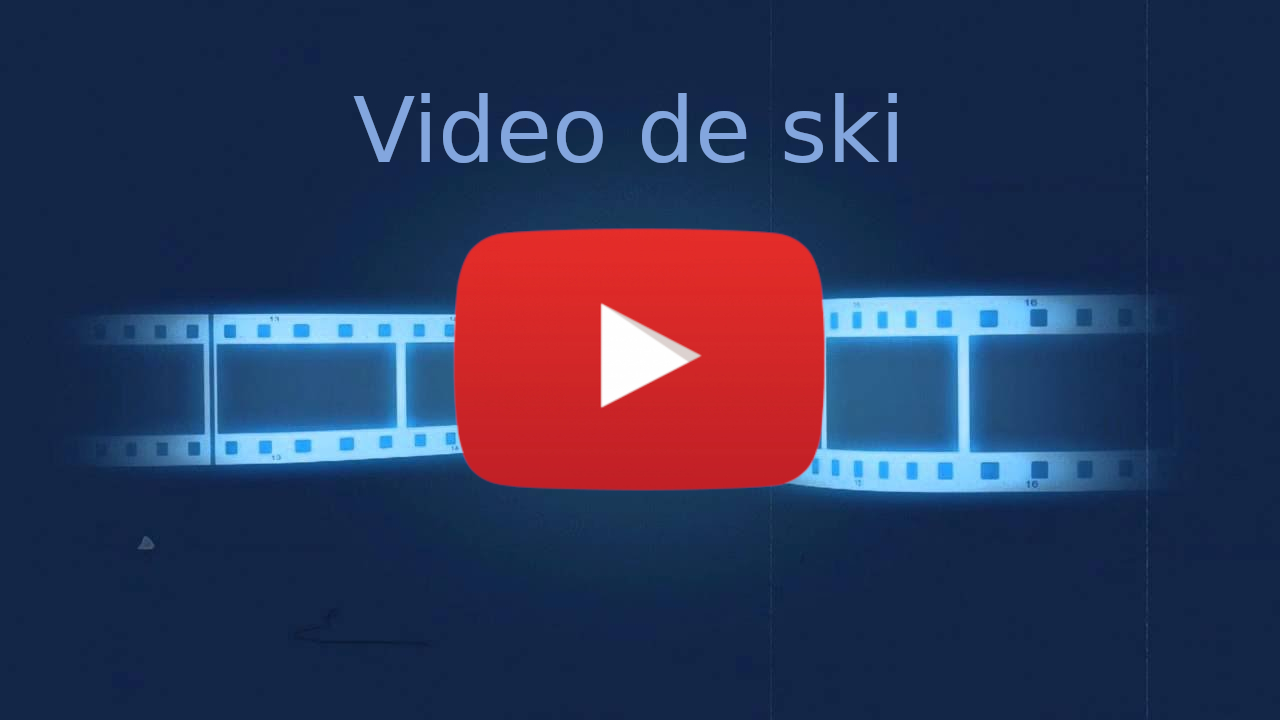
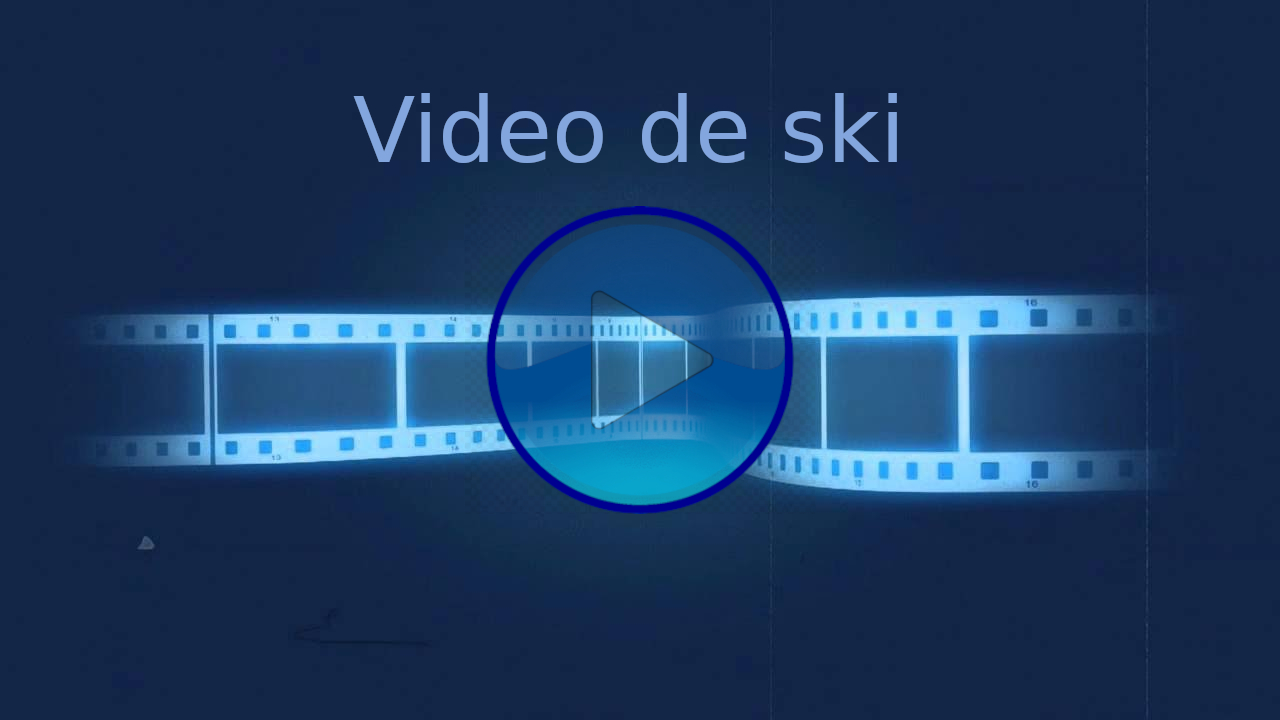
modified:   e5e9fa1ba31ecd1ae84f75caaa474f3a663f05f4/Chaises.html 	new file:   images/niveauxdespistes.jpg 	modified:   images/video.jpg

Changed region(s): [[0.3438, 0.275, 0.6562, 0.7333]]

diff --git a/lecon.html b/lecon.html
@@ -4,88 +4,71 @@
     <meta charset="UTF-8">
     <meta http-equiv="X-UA-Compatible" content="IE=edge">
     <meta name="viewport" content="width=device-width, initial-scale=1.0">
-    <title>Martin Carmichael, Moniteur de ski</title>
+    <title>Martin Carmichael, Leçon de ski</title>
     <!-- Main CSS file -->
-    <link rel="stylesheet" href="../css/style.css">
+    <link rel="stylesheet" href="css/style.css">
     <!-- Normalize file -->
-    <link rel="stylesheet" href="../css/normalize.css">
+    <link rel="stylesheet" href="css/normalize.css">
     <!-- Font Awesome -->
-    <link rel="stylesheet" href="../css/all.min.css">
+    <link rel="stylesheet" href="css/all.min.css">
     <!-- Google Fonts -->
     <link rel="stylesheet" href="https://fonts.googleapis.com/css?family=Montserrat">
 </head>
 <body>
     <!-- Sidebar (visible on medium and large screens) -->
     <div class="sidebar">
-        <img src="../images/avatar_smoke.jpg" alt="avatar photo">
+        <img src="images/avatar_smoke.jpg" alt="avatar photo">
         <div class="icons">
-            <a href="../index.html#home">
+            <a href="index.html#home">
                 <i class="fa fa-home"></i>
-                <span>Martin</span>
+                <span>accueil</span>
             </a>
-
-            <a href="#" class="active">
-                <i class="fa fa-camera"></i>  
-                <span>Dan les</br>Chaises</span>
+            <a href="#lecon" class="active">
+                <i class="fa fa-user"></i>
+                <span>Leçon </br>de ski</span>
             </a>
-
-            <a href="#1">
-                <i class="fa fa-camera"></i>  
-                <span>30 mars 2022</span>
+           <a href="#contact">
+                <i class="fa fa-envelope"></i>
+                <span>contact</span>
             </a>
-
-            <a href="#2">
+            <a href="password.html#password">
                 <i class="fa fa-camera"></i>  
-                <span>15 avril 2022</span>
-            </a>
-            <a href="videos.html">
-                <i class="fa fa-camera"></i>  
-                <span>Vidéos</span>
+                <span>vidéos</span>
             </a>
 
         </div>
     </div>
     <!-- Navbar (visible on small screens) -->
     <div class="navbar">
-        <a href="videos.html">Vidéos</a>
+        <a href="index.html#home">accueil</a>
+        <a href="#lecon">Leçon de ski</a>
+        <a href="password.html#password">vidéos</a>
     </div>
 
     <!-- start home -->
     <div class="home" id="home">
         <div class="container">
             <div class="text">
-                <h1>Dan lesChaises</h1>
-                <p>Vidéos de ski au Mont-Comi</p>
+                <h1>Martin Carmichael</h1>
+                <p>Moniteur de ski au Mont-Comi</p>
             </div>
         </div>
     </div>
     <!-- end home -->
 
-    
-    <!-- start videos -->
-    <div class="photos" id="photos">
-  	  <p id="1">
-		<video controls poster="../images/video.jpg">
-		<source src="../videos/c1.mp4" type="video/mp4">
-		Your browser does not support the video tag.  Votre Navigateur ne supporte pas les vidéos.
-		</video></br>
-	        <i class="fa fa-camera"></i>  
-		Vidéo du 30 mars 2022.
-	        </br>
-	  </p>
-	  <p id="2">
-	    </br>
-		<video controls poster="../images/video.jpg">
-		<source src="../videos/c2.mp4" type="video/mp4">
-		Your browser does not support the video tag.  Votre Navigateur ne supporte pas les vidéos.
-		</video></br>
-		<i class="fa fa-camera"></i>  
-		Vidéo du 15 avril 2022
-		</br>
-	  </p>
-
+    <!-- start about -->
+    <div class="about" id="lecon">
+        <div class="container">
+            <div class="my-name">
+                <h2>Sécurité en ski</h2>
+                <p>
+		Le code des couleurs des pistes de ski au Québec</br>
+            	<img src="images/niveauxdespistes.jpg" alt="">
+		</p>
+            </div>
+         </div>
     </div>
-    <!-- end photos -->
+
 
     <!-- start contact -->
     <div class="contact" id="contact">

diff --git a/index.html b/index.html
@@ -35,6 +35,11 @@
                 <i class="fa fa-envelope"></i>
                 <span>contact</span>
             </a>
+            <a href="lecon.html">
+                <i class="fa fa-envelope"></i>
+                <span>leçon</span>
+            </a>
+
             <a href="password.html#password">
                 <i class="fa fa-camera"></i>  
                 <span>vidéos</span>
@@ -48,6 +53,7 @@
         <a href="#about">martin</a>
         <a href="#photos">photos</a>
         <a href="#contact">contact</a>
+        <a href="lecon.html">leçon de ski</a>
         <a href="password.html#password">vidéos</a>
     </div>
 
@@ -58,7 +64,7 @@
                 <h1>Martin Carmichael</h1>
                 <p>Moniteur de ski au Mont-Comi</p>
             </div>
-            <img src="images/martincarmichael.jpg" alt="">
+            <img src="images/martincarmichael.jpg" alt="Martin Carmichael">
         </div>
     </div>
     <!-- end home -->
